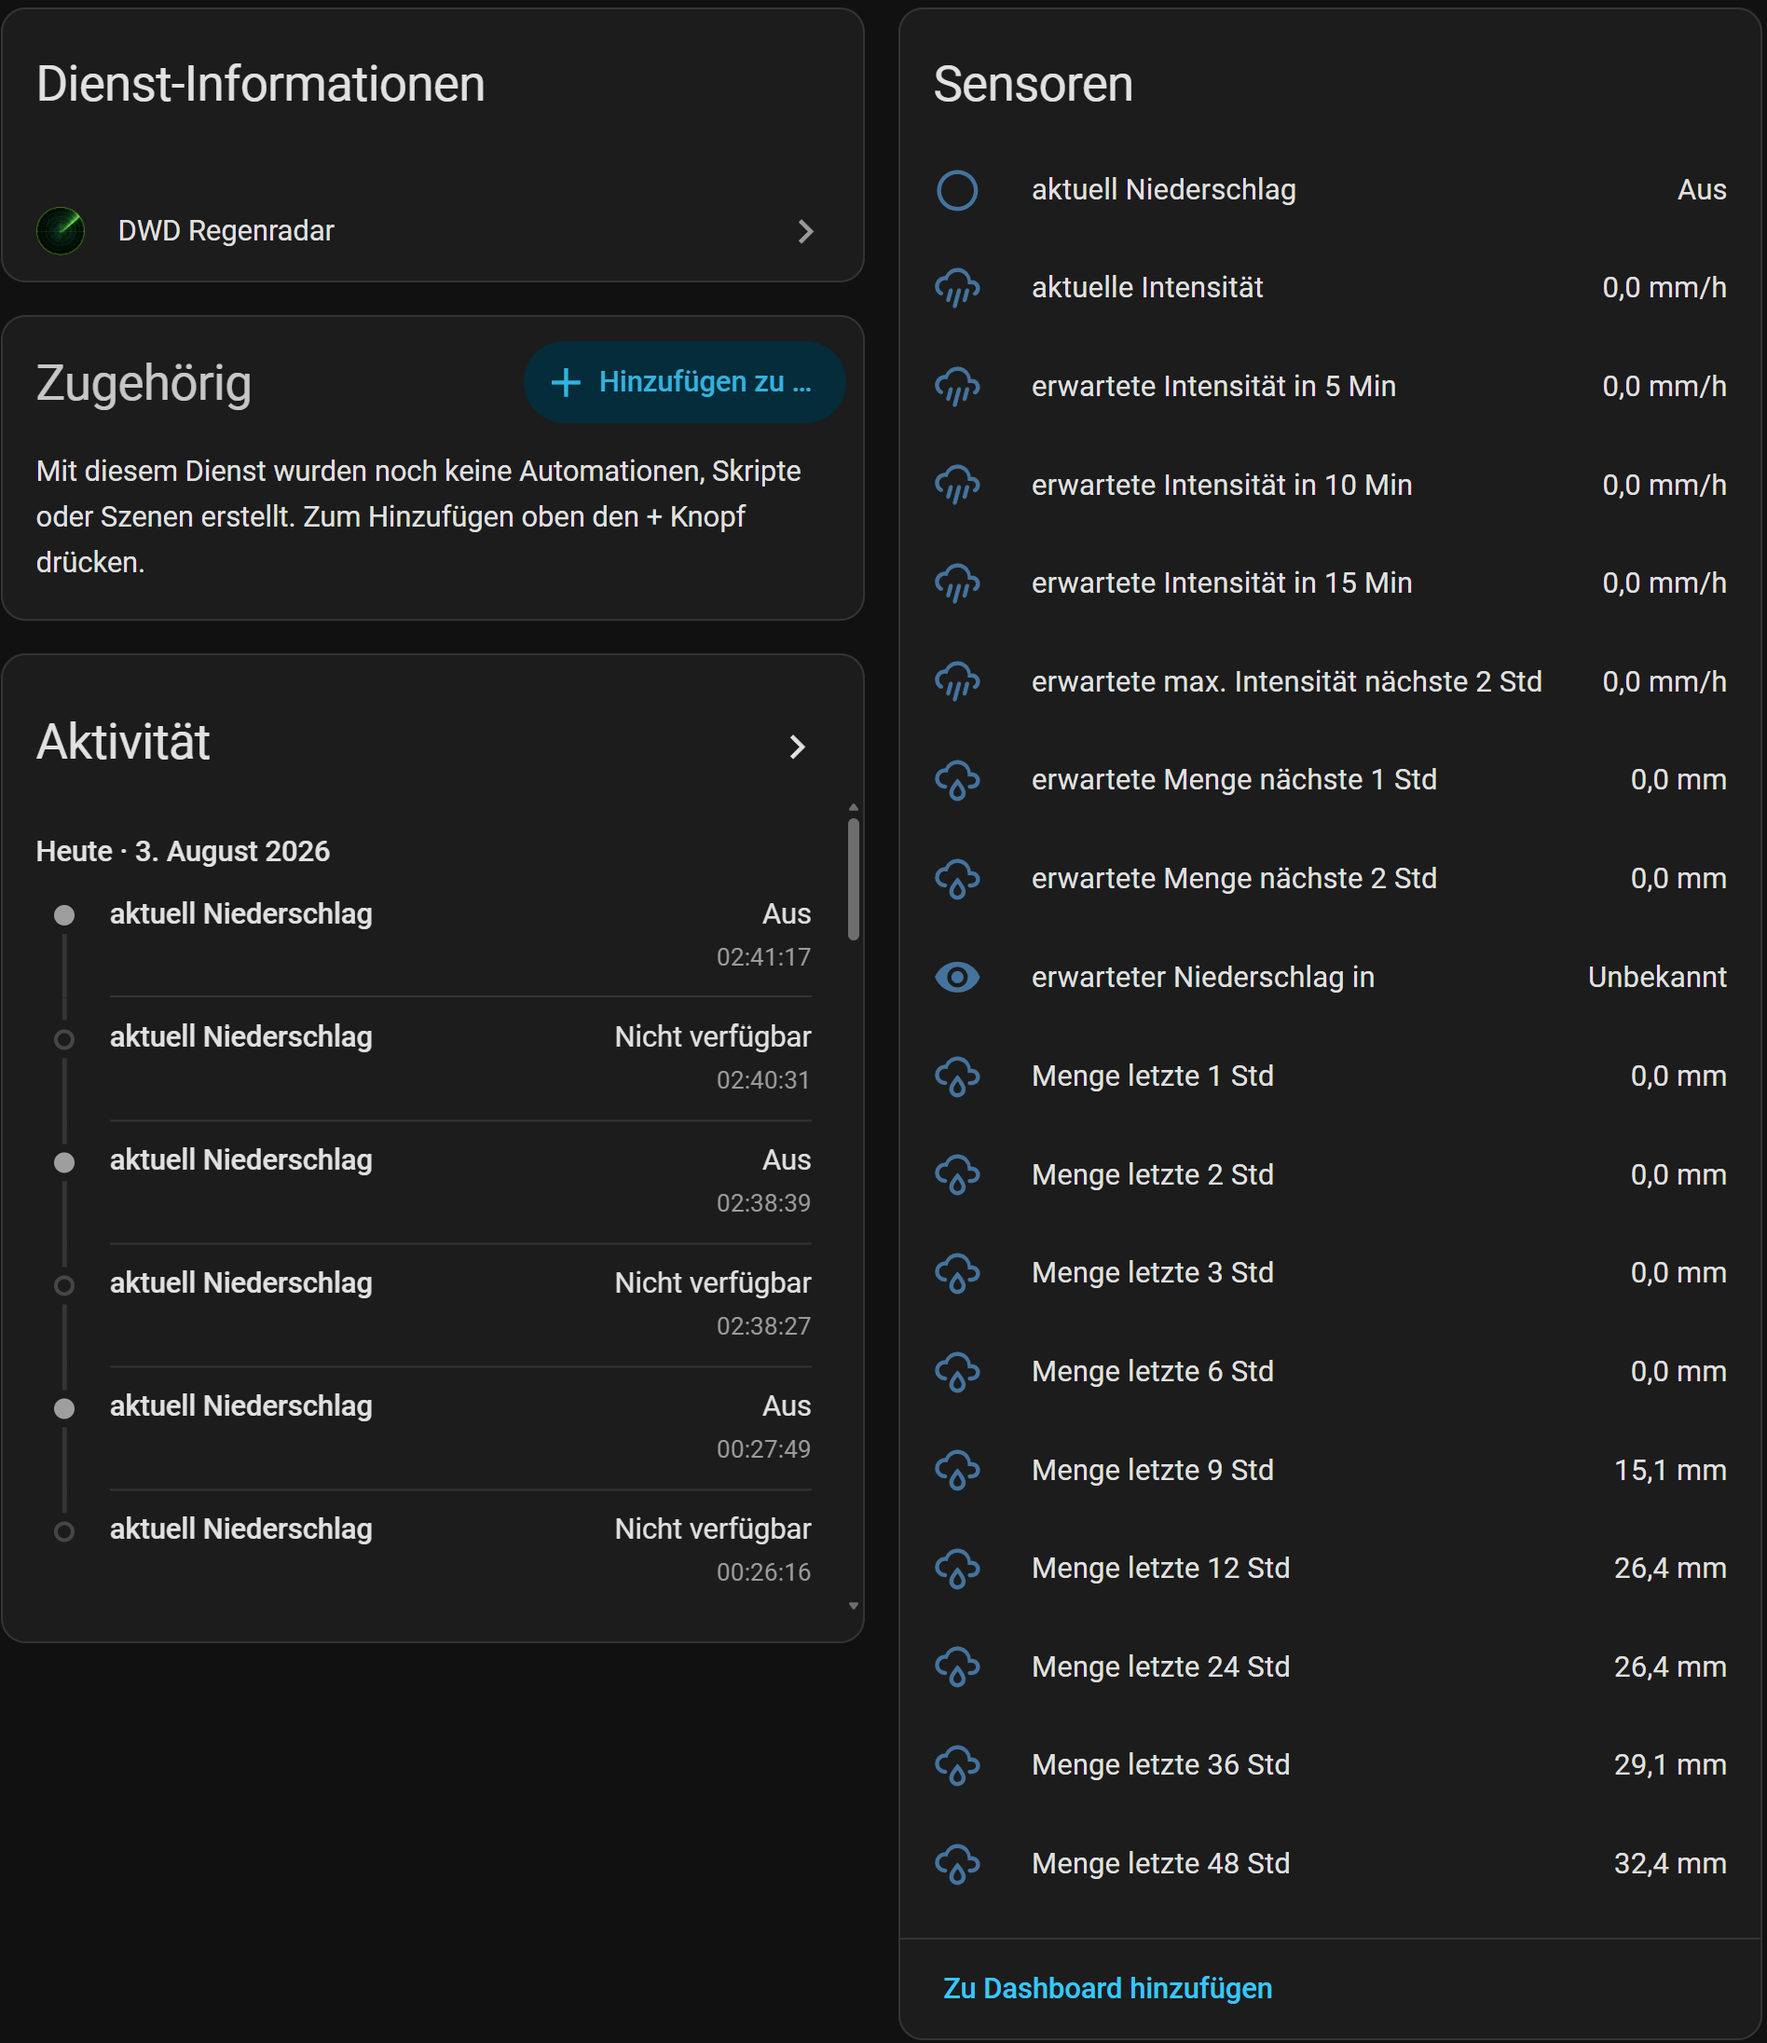
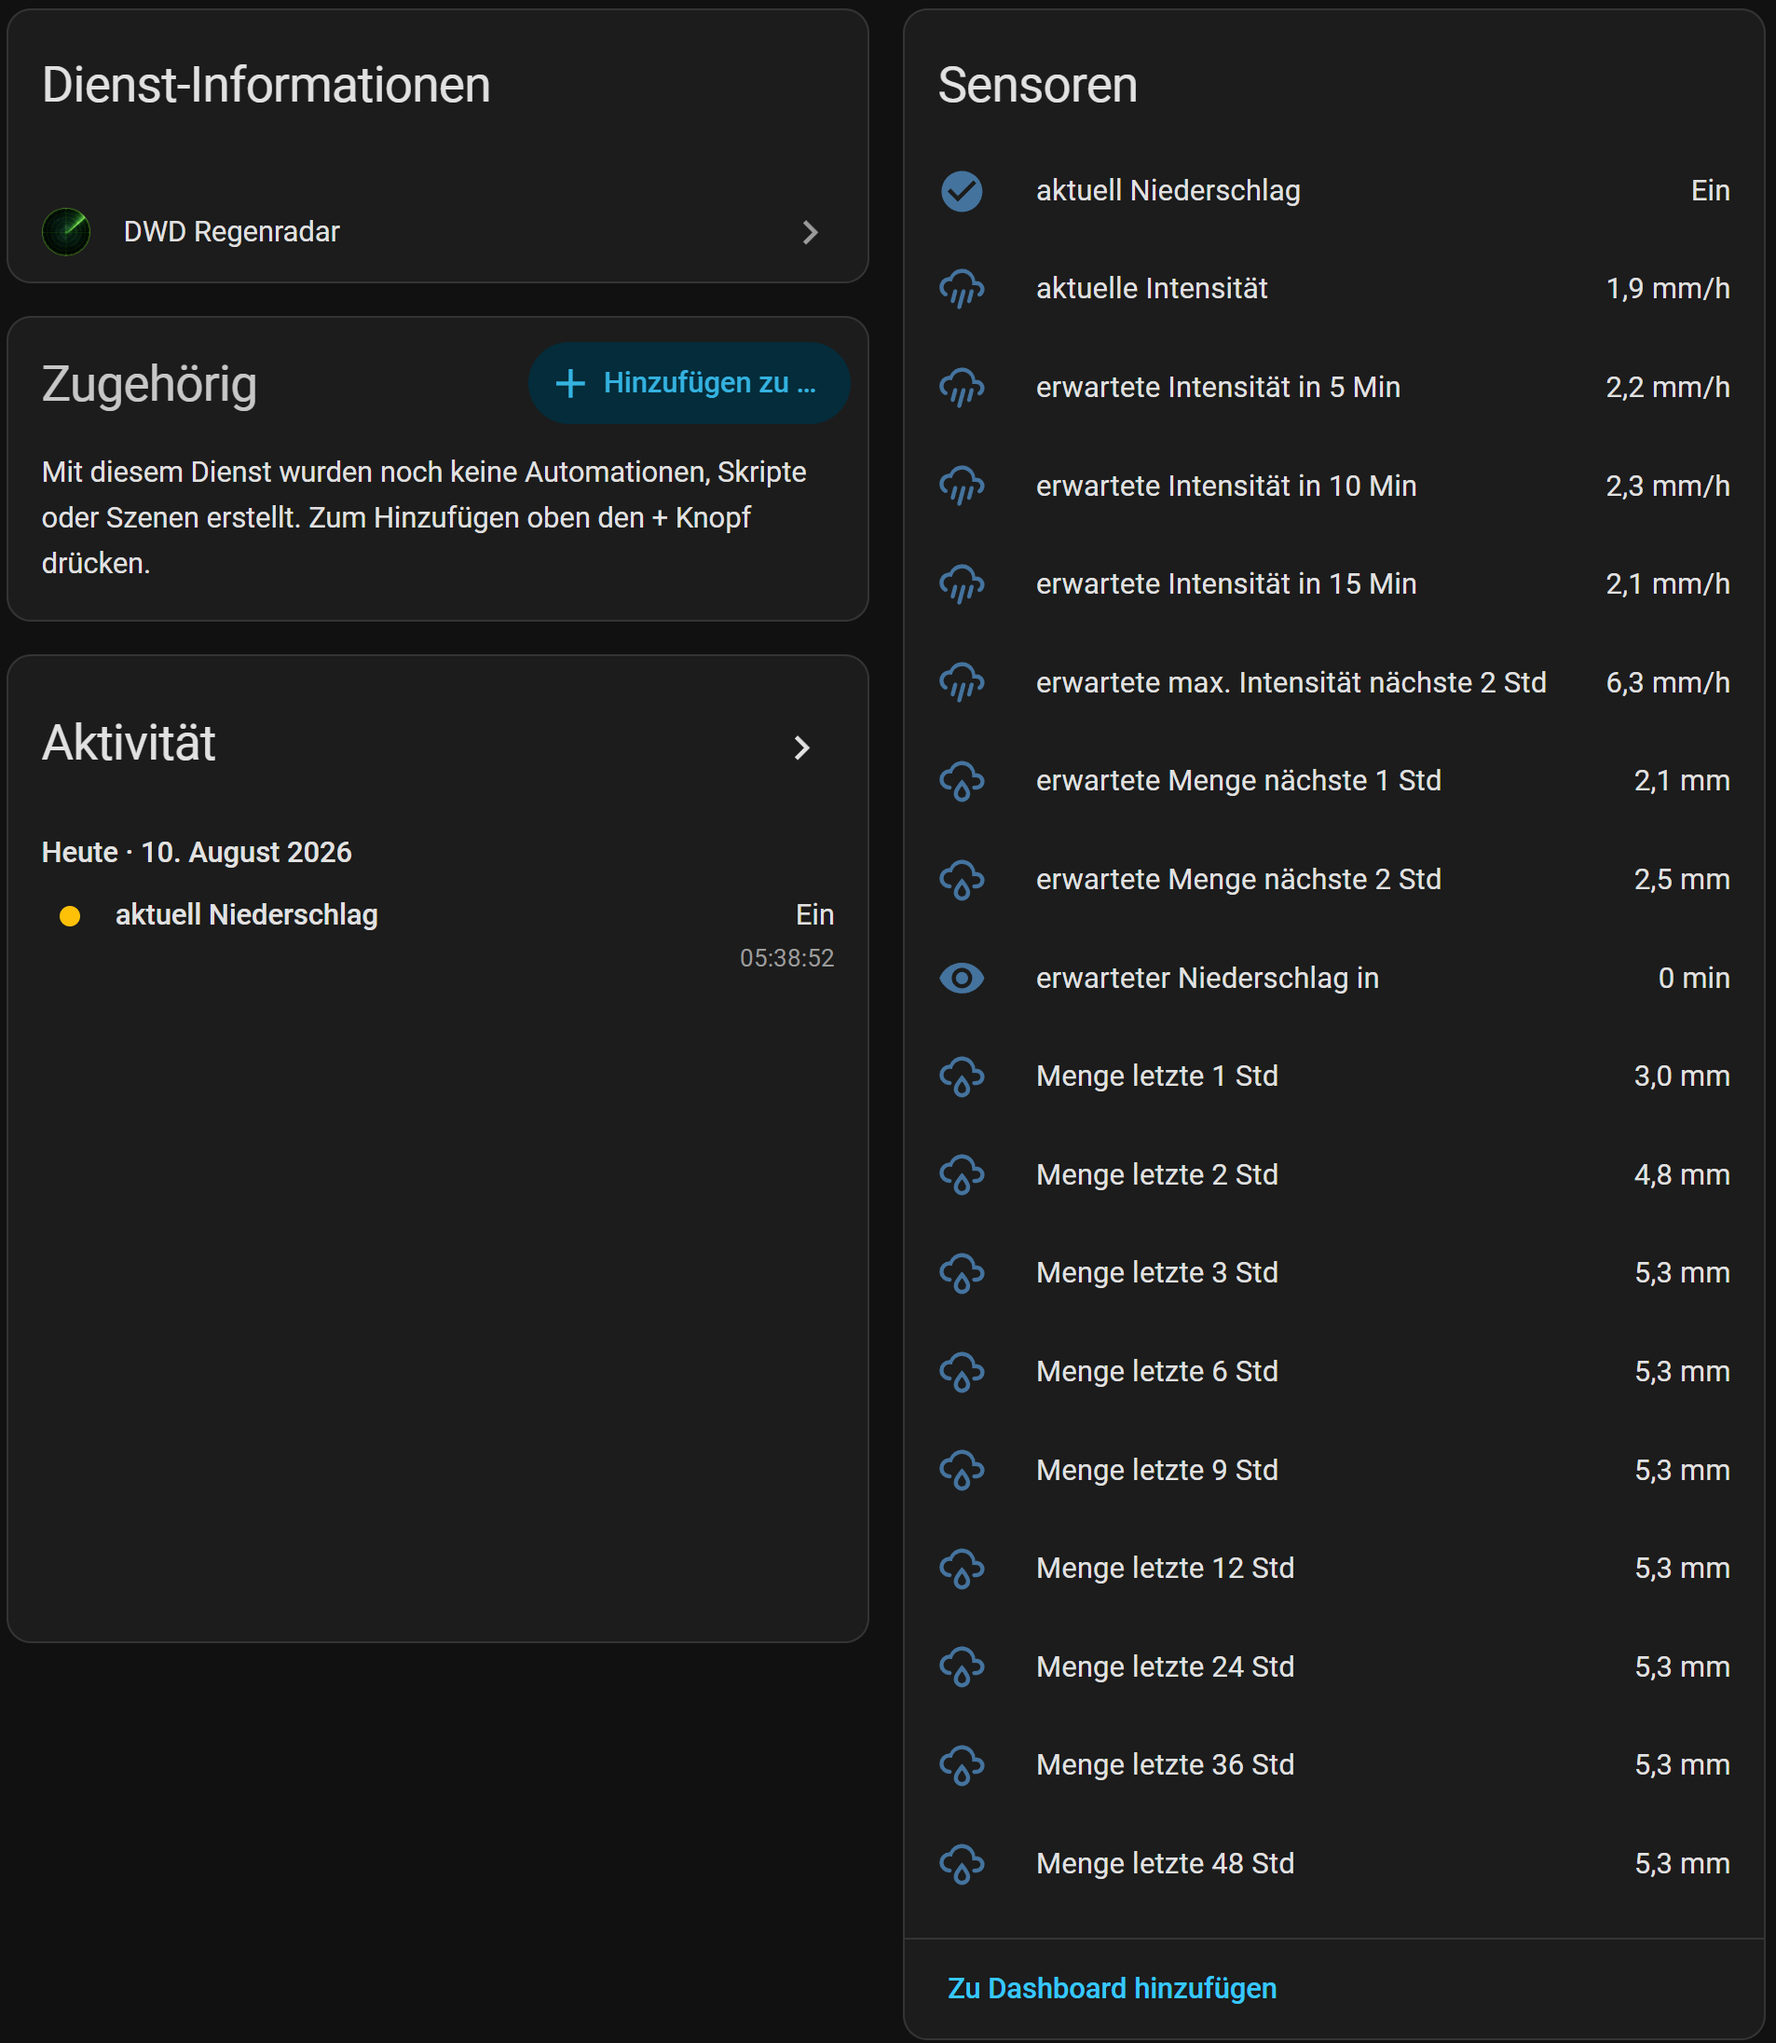
Fix precipitation start offset

diff --git a/custom_components/dwd_rainradar/state.py b/custom_components/dwd_rainradar/state.py
@@ -388,7 +388,7 @@ class State:
         """Return minutes until precipitation starts."""
 
         return self._first_positive_rv_offset(
-            5,
+            0,
         )
 
     @property
